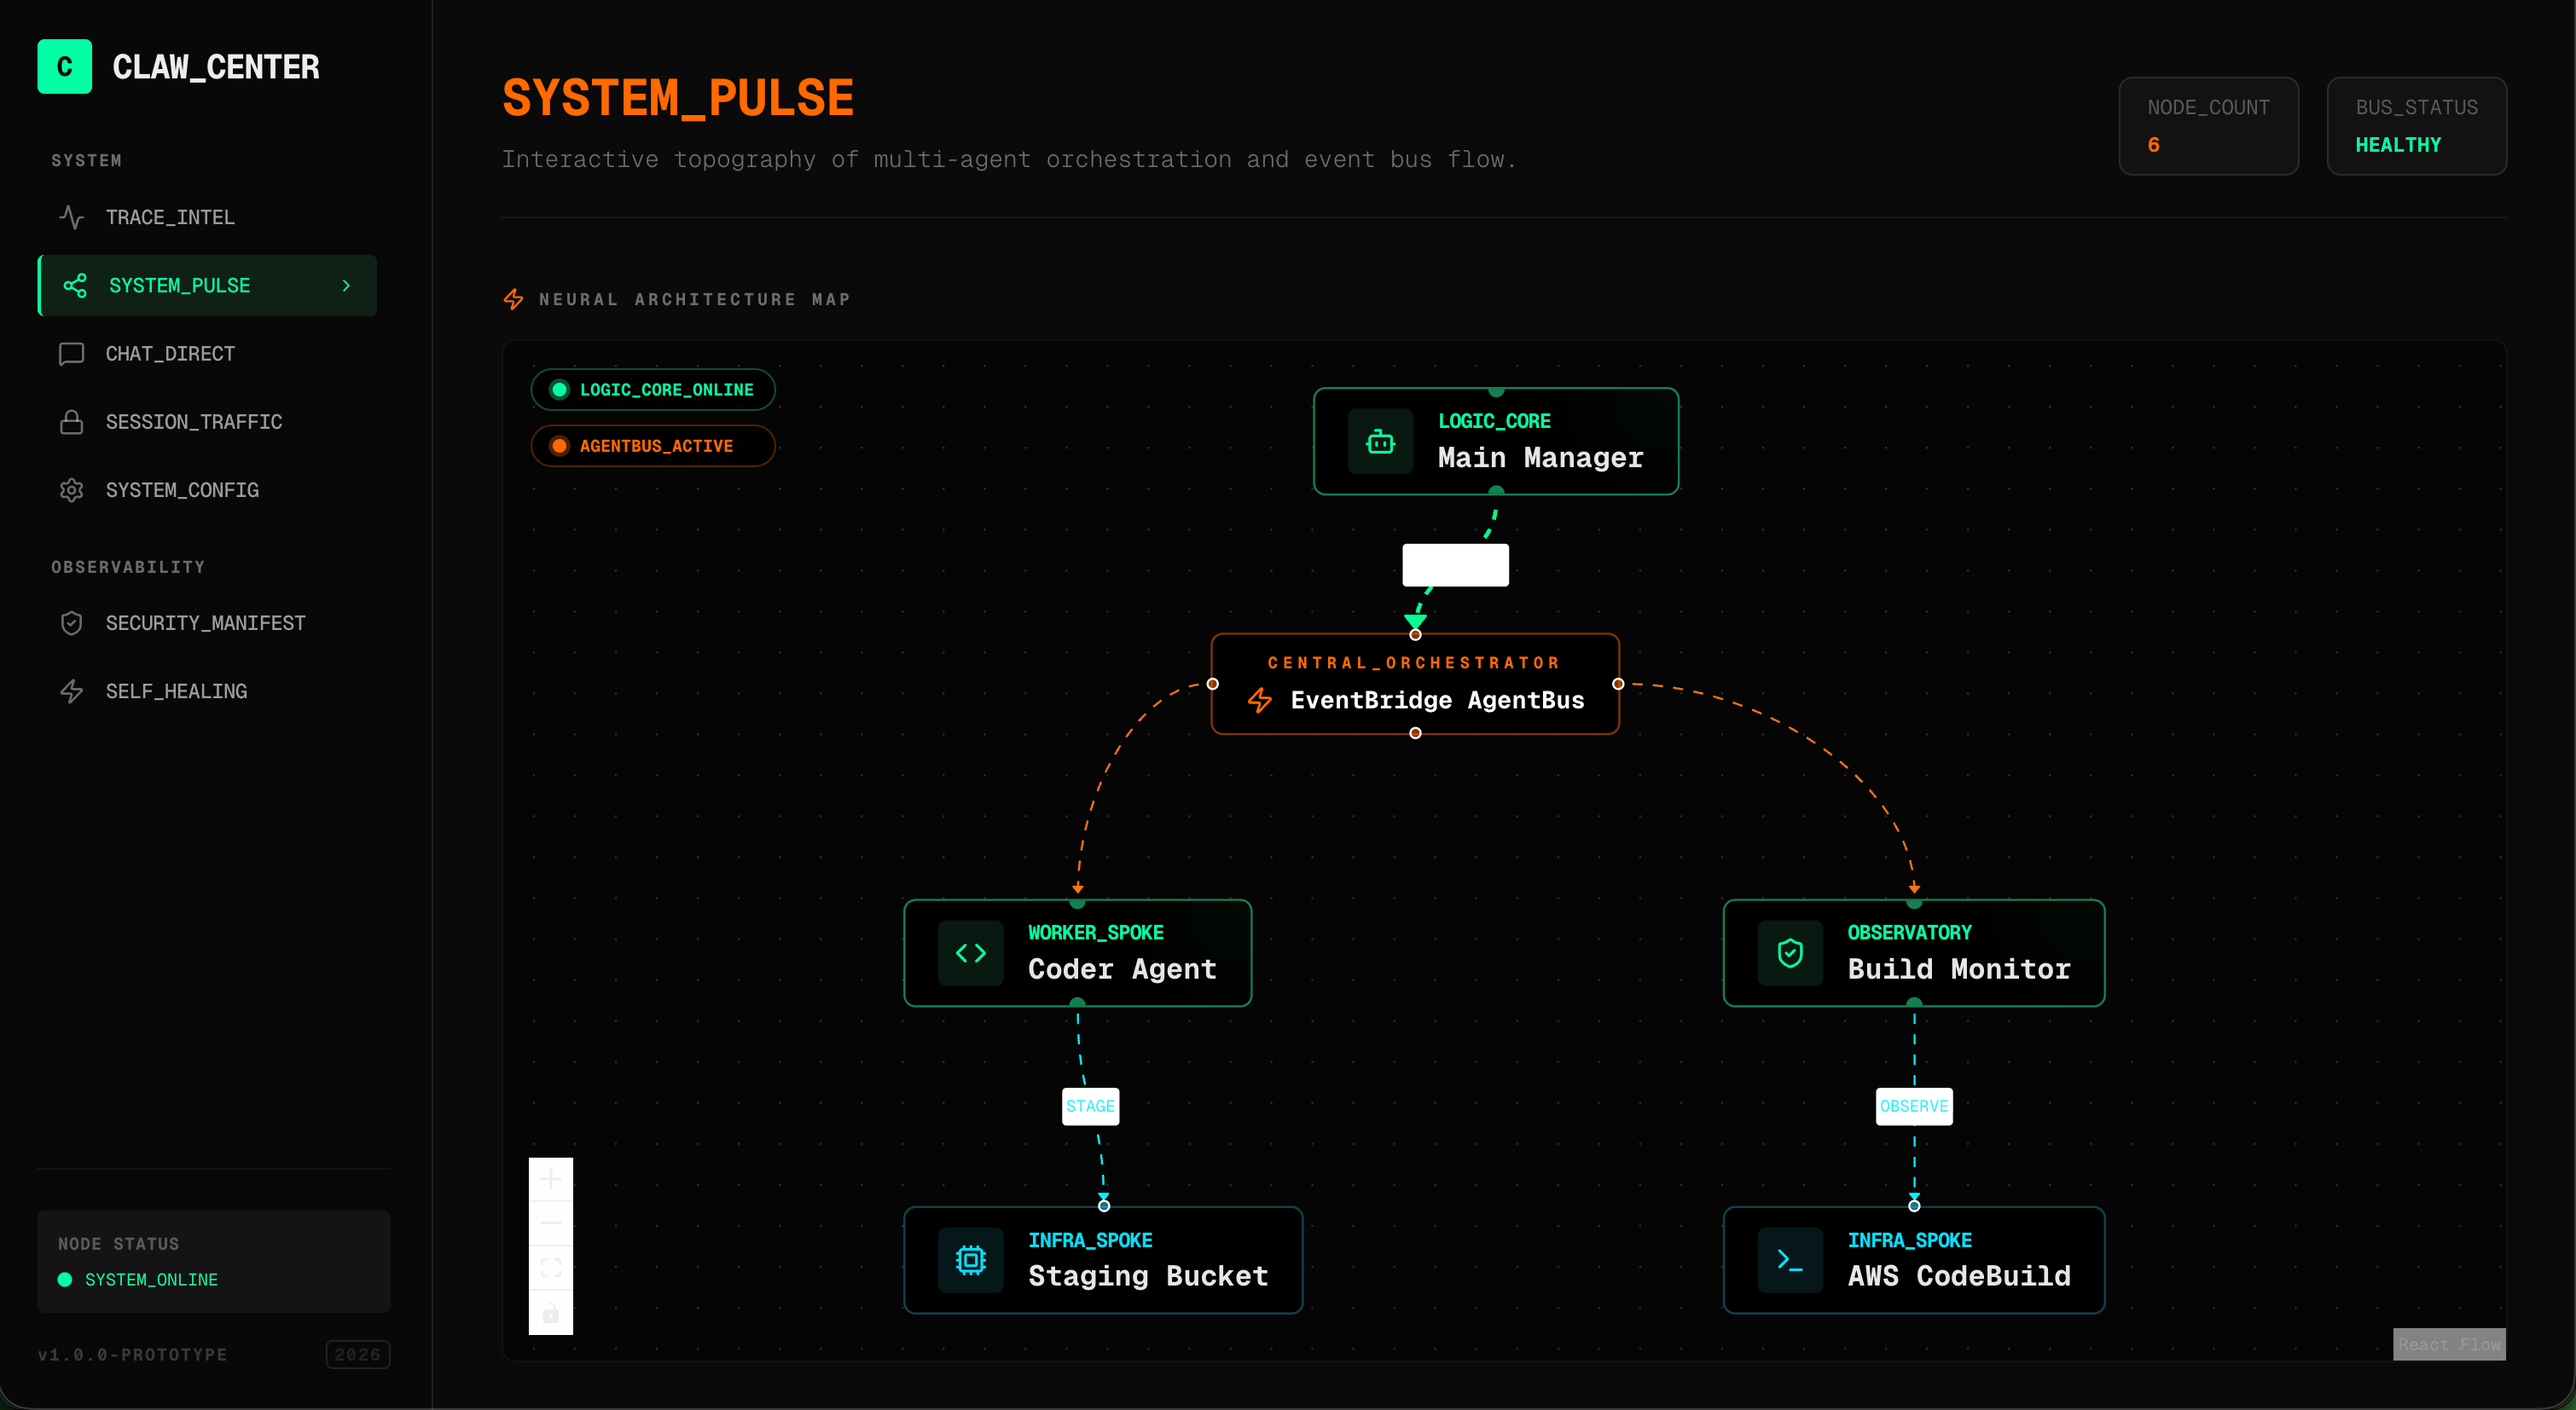
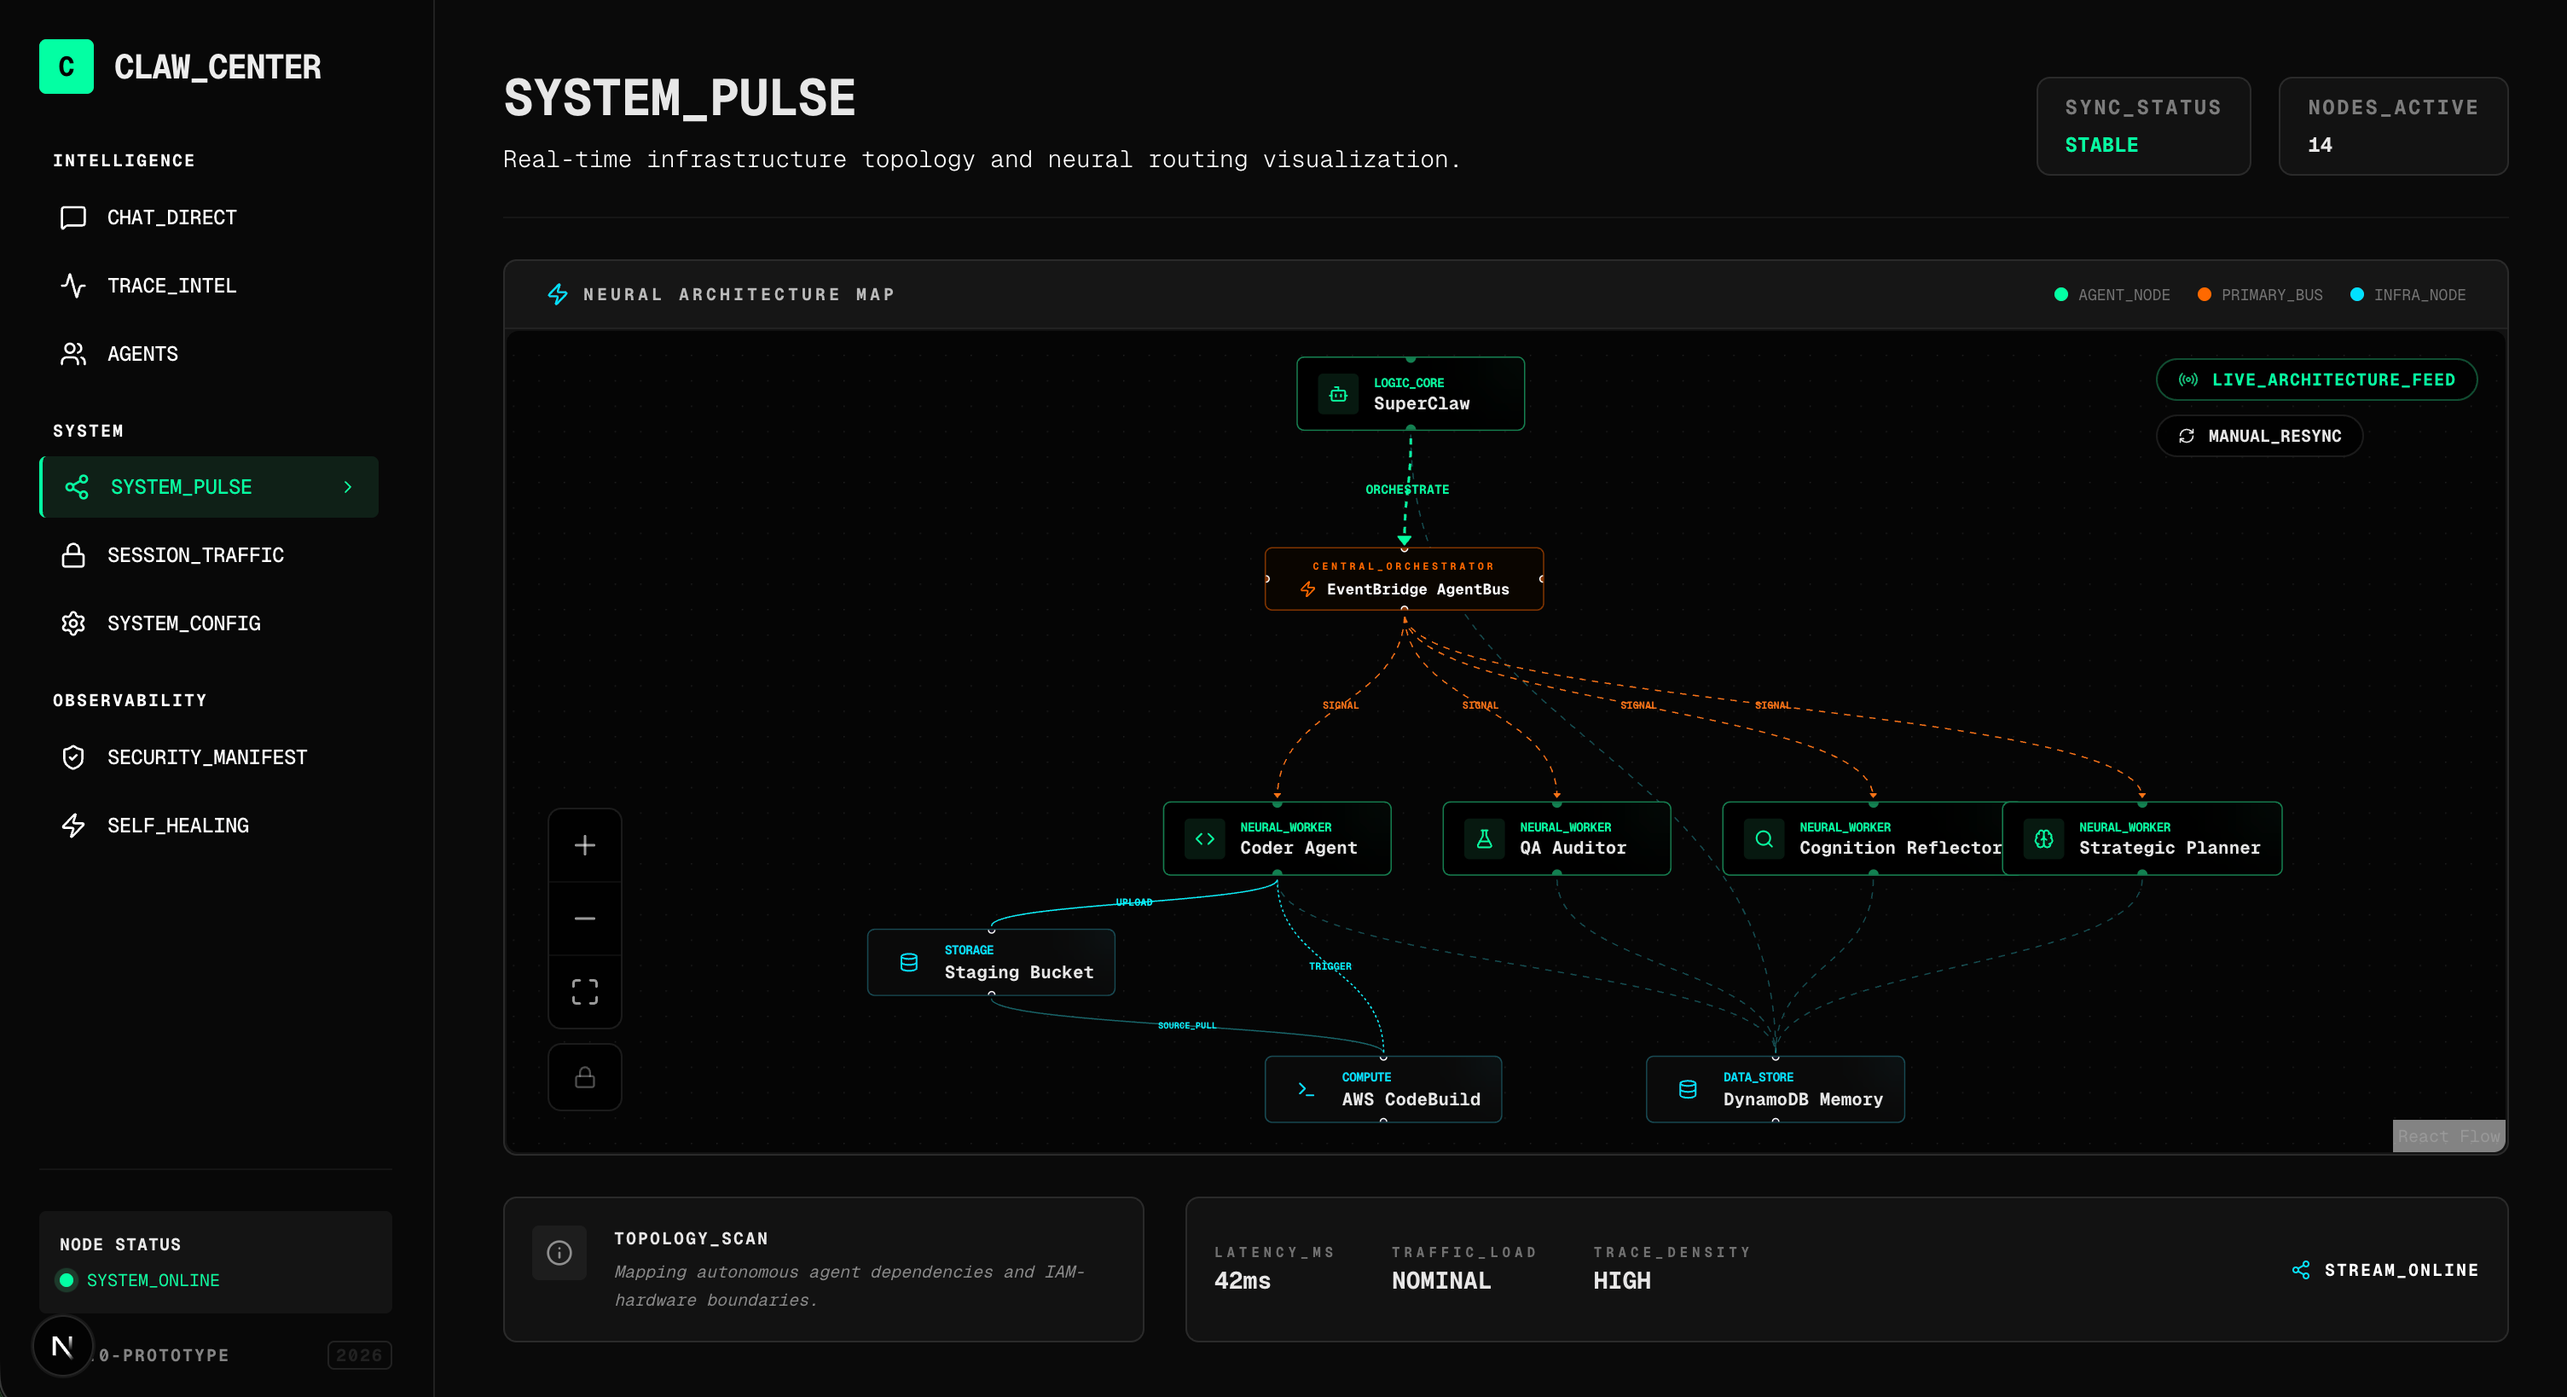
feat: swap infra nodes on pulse map and add dirty check for save buttons

diff --git a/dashboard/src/app/settings/SettingsForm.tsx b/dashboard/src/app/settings/SettingsForm.tsx
@@ -30,6 +30,24 @@ export default function SettingsForm({ config, updateConfig }: SettingsFormProps
   const [activeModel, setActiveModel] = useState(config.model || 'gpt-5.4');
   const [evolutionMode, setEvolutionMode] = useState(config.evolutionMode || 'hitl');
   const [optimizationPolicy, setOptimizationPolicy] = useState(config.optimizationPolicy || 'balanced');
+  const [maxToolIterations, setMaxToolIterations] = useState(config.maxToolIterations || '5');
+  const [circuitBreakerThreshold, setCircuitBreakerThreshold] = useState(config.circuitBreakerThreshold || '3');
+  const [protectedResources, setProtectedResources] = useState(config.protectedResources || '');
+  const [reflectionFrequency, setReflectionFrequency] = useState(config.reflectionFrequency || '3');
+  const [strategicReviewFrequency, setStrategicReviewFrequency] = useState(config.strategicReviewFrequency || '12');
+  const [minGapsForReview, setMinGapsForReview] = useState(config.minGapsForReview || '3');
+
+  const hasChanges = 
+    activeProvider !== config.provider ||
+    activeModel !== config.model ||
+    evolutionMode !== config.evolutionMode ||
+    optimizationPolicy !== config.optimizationPolicy ||
+    String(maxToolIterations) !== String(config.maxToolIterations) ||
+    String(circuitBreakerThreshold) !== String(config.circuitBreakerThreshold) ||
+    protectedResources !== config.protectedResources ||
+    String(reflectionFrequency) !== String(config.reflectionFrequency) ||
+    String(strategicReviewFrequency) !== String(config.strategicReviewFrequency) ||
+    String(minGapsForReview) !== String(config.minGapsForReview);
 
   return (
     <>
@@ -121,7 +139,8 @@ export default function SettingsForm({ config, updateConfig }: SettingsFormProps
               <input
                 name="maxToolIterations"
                 type="number"
-                defaultValue={config.maxToolIterations}
+                value={maxToolIterations}
+                onChange={(e) => setMaxToolIterations(e.target.value)}
                 className={`w-full bg-black/40 border border-white/10 rounded p-2 text-sm text-white/90 outline-none focus:border-${THEME.COLORS.PRIMARY} transition-colors font-mono`}
               />
               <p className="text-[9px] text-white/50 italic">
@@ -142,7 +161,8 @@ export default function SettingsForm({ config, updateConfig }: SettingsFormProps
               <input
                 name="circuitBreakerThreshold"
                 type="number"
-                defaultValue={config.circuitBreakerThreshold}
+                value={circuitBreakerThreshold}
+                onChange={(e) => setCircuitBreakerThreshold(e.target.value)}
                 className={`w-full bg-black/40 border border-white/10 rounded p-2 text-sm text-white/90 outline-none focus:border-${THEME.COLORS.PRIMARY} transition-colors font-mono`}
               />
             </div>
@@ -154,7 +174,8 @@ export default function SettingsForm({ config, updateConfig }: SettingsFormProps
             <input
               name="protectedResources"
               type="text"
-              defaultValue={config.protectedResources}
+              value={protectedResources}
+              onChange={(e) => setProtectedResources(e.target.value)}
               className={`w-full bg-black/40 border border-white/10 rounded p-2 text-sm text-white/90 outline-none focus:border-${THEME.COLORS.PRIMARY} transition-colors font-mono`}
             />
             <p className="text-[9px] text-white/50 italic">
@@ -176,7 +197,8 @@ export default function SettingsForm({ config, updateConfig }: SettingsFormProps
               <input
                 name="reflectionFrequency"
                 type="number"
-                defaultValue={config.reflectionFrequency}
+                value={reflectionFrequency}
+                onChange={(e) => setReflectionFrequency(e.target.value)}
                 className={`w-full bg-black/40 border border-white/10 rounded p-2 text-sm text-white/90 outline-none focus:border-${THEME.COLORS.REFLECT} transition-colors font-mono`}
               />
             </div>
@@ -187,7 +209,8 @@ export default function SettingsForm({ config, updateConfig }: SettingsFormProps
               <input
                 name="strategicReviewFrequency"
                 type="number"
-                defaultValue={config.strategicReviewFrequency}
+                value={strategicReviewFrequency}
+                onChange={(e) => setStrategicReviewFrequency(e.target.value)}
                 className={`w-full bg-black/40 border border-white/10 rounded p-2 text-sm text-white/90 outline-none focus:border-${THEME.COLORS.REFLECT} transition-colors font-mono`}
               />
             </div>
@@ -198,7 +221,8 @@ export default function SettingsForm({ config, updateConfig }: SettingsFormProps
               <input
                 name="minGapsForReview"
                 type="number"
-                defaultValue={config.minGapsForReview}
+                value={minGapsForReview}
+                onChange={(e) => setMinGapsForReview(e.target.value)}
                 className={`w-full bg-black/40 border border-white/10 rounded p-2 text-sm text-white/90 outline-none focus:border-${THEME.COLORS.REFLECT} transition-colors font-mono`}
               />
             </div>
@@ -211,7 +235,8 @@ export default function SettingsForm({ config, updateConfig }: SettingsFormProps
         <button
           type="submit"
           form="settings-form"
-          className={`${THEME.CLASSES.BUTTON_PRIMARY} px-8 py-4 rounded text-xs font-black flex items-center gap-3 hover:scale-105 active:scale-95 transition-all cursor-pointer border border-white/20`}
+          disabled={!hasChanges}
+          className={`${THEME.CLASSES.BUTTON_PRIMARY} px-8 py-4 rounded text-xs font-black flex items-center gap-3 hover:scale-105 active:scale-95 transition-all cursor-pointer disabled:opacity-30 disabled:cursor-not-allowed disabled:grayscale disabled:scale-100 border border-white/20`}
         >
           <Save size={16} />
           SAVE_SYSTEM_CONFIG

diff --git a/dashboard/src/app/agents/page.tsx b/dashboard/src/app/agents/page.tsx
@@ -32,6 +32,7 @@ const PROVIDERS = {
 
 export default function AgentsPage() {
   const [agents, setAgents] = useState<Record<string, AgentConfig>>({});
+  const [initialAgents, setInitialAgents] = useState<Record<string, AgentConfig>>({});
   const [loading, setLoading] = useState(true);
   const [saving, setSaving] = useState(false);
 
@@ -40,6 +41,7 @@ export default function AgentsPage() {
       .then((res) => res.json())
       .then((data) => {
         setAgents(data);
+        setInitialAgents(JSON.parse(JSON.stringify(data)));
         setLoading(false);
       })
       .catch((err) => {
@@ -57,6 +59,7 @@ export default function AgentsPage() {
         body: JSON.stringify(agents),
       });
       if (!response.ok) throw new Error('Failed to save');
+      setInitialAgents(JSON.parse(JSON.stringify(agents)));
       alert('Neural nodes synchronized successfully');
     } catch (err) {
       alert('Failed to save neural states');
@@ -92,6 +95,8 @@ export default function AgentsPage() {
     delete next[id];
     setAgents(next);
   };
+
+  const hasChanges = JSON.stringify(agents) !== JSON.stringify(initialAgents);
 
   if (loading)
     return (
@@ -261,8 +266,8 @@ export default function AgentsPage() {
       <div className="fixed bottom-10 right-10 z-30">
         <button
           onClick={handleSave}
-          disabled={saving}
-          className={`${THEME.CLASSES.BUTTON_PRIMARY} px-8 py-4 rounded text-xs font-black flex items-center gap-3 hover:scale-105 active:scale-95 transition-all cursor-pointer disabled:opacity-50 uppercase tracking-widest border border-white/20`}
+          disabled={saving || !hasChanges}
+          className={`${THEME.CLASSES.BUTTON_PRIMARY} px-8 py-4 rounded text-xs font-black flex items-center gap-3 hover:scale-105 active:scale-95 transition-all cursor-pointer disabled:opacity-30 disabled:cursor-not-allowed disabled:grayscale disabled:scale-100 uppercase tracking-widest border border-white/20`}
         >
           {saving ? <RefreshCw size={16} className="animate-spin" /> : <Save size={16} />}
           SAVE_AGENT_CONFIG

diff --git a/dashboard/src/app/system-pulse/Flow.tsx b/dashboard/src/app/system-pulse/Flow.tsx
@@ -162,9 +162,9 @@ export function FlowContent() {
         
         // Use known positions for core infra, layout others dynamically below
         if (infra.id === 'bus') { xPos = 400; yPos = 100; }
-        else if (infra.id === 'memory') { xPos = 100; yPos = 500; }
+        else if (infra.id === 'memory') { xPos = 700; yPos = 500; }
         else if (infra.id === 'codebuild') { xPos = 400; yPos = 500; }
-        else if (infra.id === 's3') { xPos = 700; yPos = 500; }
+        else if (infra.id === 's3') { xPos = 100; yPos = 500; }
         else if (infra.id === 'api') { xPos = 100; yPos = 100; }
         else if (infra.id === 'dashboard') { xPos = 700; yPos = 100; }
         else { xPos = 100 + (index * 150); yPos = 700; }
